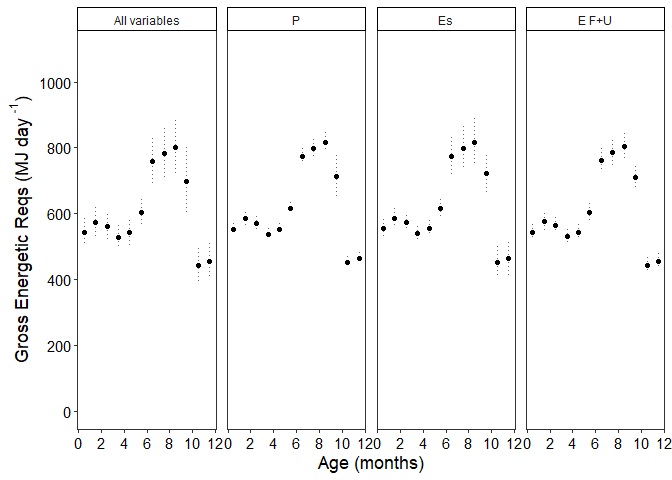
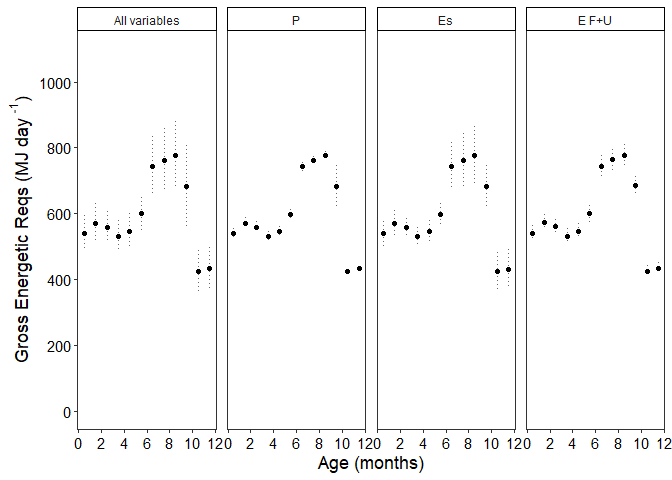
GER phase 1 - knit 10000 MC reps

diff --git a/gross_energetic_reqs/GER_sensanalysis_Es_source_phase1.md b/gross_energetic_reqs/GER_sensanalysis_Es_source_phase1.md
@@ -1,7 +1,7 @@
 Gross Energetic Requirements(GER) Sensitivity Analysis - phase 1
 ================
 Selina Agbayani
-25 Jan 2022 - code updated 21 July, 2025
+25 Jan 2022 - code updated 31 July, 2025
 
 ``` r
 # Set path for output figures: 
@@ -93,12 +93,12 @@ kable(head(Es_table_phase1_permth))
 
 | age_yrs | age_mth | Lifestage | no_days | MC_variable | Es | Es_sd | Es_perday | Es_perday_sd |
 |---:|---:|:---|---:|:---|---:|---:|---:|---:|
-| 0.0849315 | 1 | Calf | 31 | all | 5323.862 | 1390.3325 | 171.7375 | 44.84944 |
-| 0.0849315 | 1 | Calf | 31 | Rs | 4917.853 | 379.5683 | 158.6404 | 12.24414 |
-| 0.0849315 | 1 | Calf | 31 | Vt | 4894.131 | 353.4123 | 157.8752 | 11.40040 |
-| 0.0849315 | 1 | Calf | 31 | pctO2 | 4703.071 | 1052.4033 | 151.7120 | 33.94849 |
-| 0.1616438 | 2 | Calf | 28 | all | 5017.007 | 1330.9235 | 179.1788 | 47.53298 |
-| 0.1616438 | 2 | Calf | 28 | Rs | 4633.592 | 391.3971 | 165.4854 | 13.97847 |
+| 0.0849315 | 1 | Calf | 31 | all | 4601.708 | 1306.01149 | 148.4422 | 42.1294030 |
+| 0.0849315 | 1 | Calf | 31 | Rs | 4604.314 | 10.78140 | 148.5262 | 0.3477870 |
+| 0.0849315 | 1 | Calf | 31 | Vt | 4604.233 | 117.79601 | 148.5236 | 3.7998712 |
+| 0.0849315 | 1 | Calf | 31 | pctO2 | 4603.405 | 1315.36968 | 148.4969 | 42.4312801 |
+| 0.1616438 | 2 | Calf | 28 | all | 4354.556 | 1236.64343 | 155.5199 | 44.1658368 |
+| 0.1616438 | 2 | Calf | 28 | Rs | 4356.999 | 11.19663 | 155.6071 | 0.3998796 |
 
 ``` r
 mass_table <- as_tibble(read_csv("data/mass_table.csv"), 
@@ -154,12 +154,12 @@ kable(head(mean_masschange))
 
 |   age_yrs | mean_masschange | sd_masschange | sex | age_mth |
 |----------:|----------------:|--------------:|:----|--------:|
-| 0.0000000 |        986.5660 |     20.894489 | N/A |       0 |
-| 0.0849315 |        516.6026 |      8.099161 | N/A |       1 |
-| 0.1616438 |        507.6841 |     12.548106 | N/A |       2 |
-| 0.2465753 |        578.9767 |     13.529226 | N/A |       3 |
-| 0.3287671 |        555.4428 |      9.504603 | N/A |       4 |
-| 0.4136986 |        552.6109 |      6.368057 | N/A |       5 |
+| 0.0000000 |        982.8522 |     27.098452 | N/A |       0 |
+| 0.0849315 |        515.1631 |     10.503953 | N/A |       1 |
+| 0.1616438 |        505.4539 |     16.273872 | N/A |       2 |
+| 0.2465753 |        576.5720 |     17.546305 | N/A |       3 |
+| 0.3287671 |        553.7534 |     12.326696 | N/A |       4 |
+| 0.4136986 |        551.4791 |      8.258852 | N/A |       5 |
 
 ``` r
 age_yr_tibble <- as_tibble(
@@ -224,7 +224,7 @@ MC calculations for Production Cost and Es
 #Energy Density values
 ED_milk = 22.33 #MJ/kg   Average between Tomilin 1946 and Zenkovich 1938,    (Sumich 1986 - cited 22.4  MJ/kg)
 
-MC_reps = 10
+MC_reps = 10000
 ```
 
 ``` r
@@ -478,54 +478,54 @@ kable(predict_GER_table_sensAnalysis_phase1_permth)
 
 | phase | age_yrs | sex | MC_variable | mean_GER | GER_sd | quant025 | quant975 | GER_foraging | sd_foraging | quant025_foraging | quant975_foraging | FR_foraging | FR_sd_foraging | FR_quant025 | FR_quant975 | Ts | mass | mass_sd | pctbodywt | pctbodywt_sd | pct_unit | age_mth |
 |:---|---:|:---|:---|---:|---:|---:|---:|---:|---:|---:|---:|---:|---:|---:|---:|---:|---:|---:|---:|---:|:---|---:|
-| 1 | 0.0849315 | N/A | all | 541.6956 | 42.54135 | 488.4504 | 609.8798 | 541.6956 | 42.54135 | 488.4504 | 609.8798 | 24.25865 | 1.9051208 | 21.87418 | 27.31213 | 31 | 1493.320 | 30.22197 | 0.0162344 | 0.0010632 | L milk/kg body weight | 1 |
-| 1 | 0.1616438 | N/A | all | 572.5562 | 46.41602 | 514.4632 | 646.1757 | 572.5562 | 46.41602 | 514.4632 | 646.1757 | 25.64067 | 2.0786393 | 23.03910 | 28.93756 | 28 | 1996.742 | 43.30167 | 0.0128318 | 0.0008518 | L milk/kg body weight | 2 |
-| 1 | 0.2465753 | N/A | all | 560.6122 | 37.97524 | 509.9085 | 619.8920 | 560.6122 | 37.97524 | 509.9085 | 619.8920 | 25.10579 | 1.7006375 | 22.83513 | 27.76050 | 31 | 2571.123 | 57.40406 | 0.0097601 | 0.0005377 | L milk/kg body weight | 3 |
-| 1 | 0.3287671 | N/A | all | 527.6802 | 35.94325 | 480.7592 | 584.1114 | 527.6802 | 35.94325 | 480.7592 | 584.1114 | 23.63100 | 1.6096397 | 21.52974 | 26.15815 | 30 | 3123.337 | 67.31133 | 0.0075627 | 0.0004262 | L milk/kg body weight | 4 |
-| 1 | 0.4136986 | N/A | all | 541.9841 | 38.50671 | 491.8010 | 603.4494 | 541.9841 | 38.50671 | 491.8010 | 603.4494 | 24.27157 | 1.7244384 | 22.02423 | 27.02416 | 31 | 3673.785 | 73.94917 | 0.0066037 | 0.0003964 | L milk/kg body weight | 5 |
-| 1 | 0.4958904 | N/A | all | 603.0384 | 40.61985 | 549.5824 | 667.3214 | 603.0384 | 40.61985 | 549.5824 | 667.3214 | 27.00575 | 1.8190707 | 24.61184 | 29.88452 | 30 | 4176.706 | 75.22992 | 0.0064634 | 0.0003735 | L milk/kg body weight | 6 |
-| 1 | 0.5808219 | N/A | all | 757.7556 | 71.71363 | 672.0160 | 876.6381 | 757.7556 | 71.71363 | 672.0160 | 876.6381 | 33.93442 | 3.2115373 | 30.09476 | 39.25831 | 31 | 4658.620 | 74.38008 | 0.0072787 | 0.0006069 | L milk/kg body weight | 7 |
-| 1 | 0.6657534 | N/A | all | 781.8777 | 77.55865 | 689.7370 | 911.3745 | 781.8777 | 77.55865 | 689.7370 | 911.3745 | 35.01468 | 3.4732939 | 30.88836 | 40.81391 | 31 | 5098.540 | 73.57699 | 0.0068624 | 0.0006100 | L milk/kg body weight | 8 |
-| 1 | 0.7479452 | N/A | all | 800.3402 | 82.32948 | 703.0077 | 938.5747 | 800.3402 | 82.32948 | 703.0077 | 938.5747 | 35.84148 | 3.6869447 | 31.48265 | 42.03201 | 30 | 5483.042 | 76.03485 | 0.0065318 | 0.0006068 | L milk/kg body weight | 9 |
-| 1 | 0.8328767 | N/A | all | 699.0437 | 101.30627 | 573.3887 | 848.9400 | 699.0437 | 101.30627 | 573.3887 | 848.9400 | 31.30514 | 4.5367789 | 25.67795 | 38.01791 | 31 | 5774.600 | 172.20283 | 0.0054066 | 0.0006452 | L milk/kg body weight | 10 |
-| 1 | 0.9150685 | N/A | all | 442.3495 | 52.98001 | 382.3982 | 531.3219 | 442.3495 | 52.98001 | 382.3982 | 531.3219 | 152.69413 | 16.9513982 | 132.90846 | 181.67711 | 30 | 5908.041 | 168.54667 | 2.5811213 | 0.2367848 | % of body weight | 11 |
-| 1 | 1.0000000 | N/A | all | 454.2423 | 54.47439 | 392.6322 | 545.7510 | 454.2423 | 54.47439 | 392.6322 | 545.7510 | 156.79903 | 17.4294916 | 136.46550 | 186.61093 | 31 | 6045.986 | 164.44864 | 2.5900924 | 0.2399091 | % of body weight | 12 |
-| 1 | 0.0849315 | N/A | P_cost | 552.7408 | 18.33653 | 526.6708 | 577.3982 | 552.7408 | 18.33653 | 526.6708 | 577.3982 | 24.75328 | 0.8211613 | 23.58579 | 25.85751 | 31 | 1498.258 | 0.00000 | 0.0165214 | 0.0005481 | L milk/kg body weight | 1 |
-| 1 | 0.1616438 | N/A | P_cost | 584.3847 | 20.69069 | 554.2294 | 611.7499 | 584.3847 | 20.69069 | 554.2294 | 611.7499 | 26.17038 | 0.9265873 | 24.81994 | 27.39587 | 28 | 2003.817 | 0.00000 | 0.0130603 | 0.0004624 | L milk/kg body weight | 2 |
-| 1 | 0.2465753 | N/A | P_cost | 571.7738 | 20.09168 | 541.4845 | 597.7683 | 571.7738 | 20.09168 | 541.4845 | 597.7683 | 25.60564 | 0.8997616 | 24.24919 | 26.76974 | 31 | 2580.502 | 0.00000 | 0.0099227 | 0.0003487 | L milk/kg body weight | 3 |
-| 1 | 0.3287671 | N/A | P_cost | 537.9450 | 17.89511 | 510.1534 | 560.5998 | 537.9450 | 17.89511 | 510.1534 | 560.5998 | 24.09068 | 0.8013931 | 22.84610 | 25.10523 | 30 | 3134.335 | 0.00000 | 0.0076861 | 0.0002557 | L milk/kg body weight | 4 |
-| 1 | 0.4136986 | N/A | P_cost | 552.4873 | 17.77054 | 526.3366 | 575.8653 | 552.4873 | 17.77054 | 526.3366 | 575.8653 | 24.74193 | 0.7958147 | 23.57083 | 25.78886 | 31 | 3685.868 | 0.00000 | 0.0067126 | 0.0002159 | L milk/kg body weight | 5 |
-| 1 | 0.4958904 | N/A | P_cost | 615.0639 | 18.79466 | 589.4917 | 640.9180 | 615.0639 | 18.79466 | 589.4917 | 640.9180 | 27.54429 | 0.8416775 | 26.39909 | 28.70210 | 30 | 4188.998 | 0.00000 | 0.0065754 | 0.0002009 | L milk/kg body weight | 6 |
-| 1 | 0.5808219 | N/A | P_cost | 773.9365 | 25.34524 | 745.5946 | 810.2517 | 773.9365 | 25.34524 | 745.5946 | 810.2517 | 34.65905 | 1.1350308 | 33.38982 | 36.28534 | 31 | 4670.773 | 0.00000 | 0.0074204 | 0.0002430 | L milk/kg body weight | 7 |
-| 1 | 0.6657534 | N/A | P_cost | 798.6208 | 26.87824 | 769.3812 | 837.2530 | 798.6208 | 26.87824 | 769.3812 | 837.2530 | 35.76448 | 1.2036828 | 34.45505 | 37.49454 | 31 | 5110.562 | 0.00000 | 0.0069981 | 0.0002355 | L milk/kg body weight | 8 |
-| 1 | 0.7479452 | N/A | P_cost | 817.6246 | 28.00172 | 786.5676 | 857.9084 | 817.6246 | 28.00172 | 786.5676 | 857.9084 | 36.61552 | 1.2539953 | 35.22470 | 38.41954 | 30 | 5495.466 | 0.00000 | 0.0066629 | 0.0002282 | L milk/kg body weight | 9 |
-| 1 | 0.8328767 | N/A | P_cost | 714.2141 | 62.51032 | 613.3978 | 790.3663 | 714.2141 | 62.51032 | 613.3978 | 790.3663 | 31.98451 | 2.7993874 | 27.46967 | 35.39482 | 31 | 5802.737 | 0.00000 | 0.0055120 | 0.0004824 | L milk/kg body weight | 10 |
-| 1 | 0.9150685 | N/A | P_cost | 452.4455 | 17.09985 | 432.7290 | 476.8587 | 452.4455 | 17.09985 | 432.7290 | 476.8587 | 156.01569 | 5.8964999 | 149.21689 | 164.43403 | 30 | 5935.580 | 0.00000 | 2.6284827 | 0.0993416 | % of body weight | 11 |
-| 1 | 1.0000000 | N/A | P_cost | 464.6727 | 17.46182 | 444.5211 | 489.6140 | 464.6727 | 17.46182 | 444.5211 | 489.6140 | 160.23198 | 6.0213176 | 153.28314 | 168.83241 | 31 | 6072.856 | 0.00000 | 2.6384946 | 0.0991513 | % of body weight | 12 |
-| 1 | 0.0849315 | N/A | Es | 554.4069 | 28.39993 | 523.8656 | 601.9316 | 554.4069 | 28.39993 | 523.8656 | 601.9316 | 24.82790 | 1.2718285 | 23.46017 | 26.95619 | 31 | 1498.258 | 0.00000 | 0.0165712 | 0.0008489 | L milk/kg body weight | 1 |
-| 1 | 0.1616438 | N/A | Es | 586.2712 | 30.34884 | 552.4849 | 636.6138 | 586.2712 | 30.34884 | 552.4849 | 636.6138 | 26.25487 | 1.3591060 | 24.74182 | 28.50935 | 28 | 2003.817 | 0.00000 | 0.0131024 | 0.0006783 | L milk/kg body weight | 2 |
-| 1 | 0.2465753 | N/A | Es | 574.1078 | 20.86688 | 551.1952 | 609.3426 | 574.1078 | 20.86688 | 551.1952 | 609.3426 | 25.71016 | 0.9344773 | 24.68407 | 27.28807 | 31 | 2580.502 | 0.00000 | 0.0099632 | 0.0003621 | L milk/kg body weight | 3 |
-| 1 | 0.3287671 | N/A | Es | 540.3420 | 19.94034 | 517.7070 | 574.6484 | 540.3420 | 19.94034 | 517.7070 | 574.6484 | 24.19803 | 0.8929843 | 23.18437 | 25.73437 | 30 | 3134.335 | 0.00000 | 0.0077203 | 0.0002849 | L milk/kg body weight | 4 |
-| 1 | 0.4136986 | N/A | Es | 554.7348 | 23.50649 | 528.0332 | 595.1654 | 554.7348 | 23.50649 | 528.0332 | 595.1654 | 24.84258 | 1.0526866 | 23.64681 | 26.65318 | 31 | 3685.868 | 0.00000 | 0.0067400 | 0.0002856 | L milk/kg body weight | 5 |
-| 1 | 0.4958904 | N/A | Es | 616.8020 | 25.61923 | 588.6008 | 660.0578 | 616.8020 | 25.61923 | 588.6008 | 660.0578 | 27.62212 | 1.1473008 | 26.35919 | 29.55924 | 30 | 4188.998 | 0.00000 | 0.0065940 | 0.0002739 | L milk/kg body weight | 6 |
-| 1 | 0.5808219 | N/A | Es | 774.4531 | 58.61736 | 706.2837 | 870.4534 | 774.4531 | 58.61736 | 706.2837 | 870.4534 | 34.68218 | 2.6250496 | 31.62936 | 38.98134 | 31 | 4670.773 | 0.00000 | 0.0074254 | 0.0005620 | L milk/kg body weight | 7 |
-| 1 | 0.6657534 | N/A | Es | 798.8882 | 65.37352 | 722.8924 | 905.9585 | 798.8882 | 65.37352 | 722.8924 | 905.9585 | 35.77645 | 2.9276097 | 32.37315 | 40.57136 | 31 | 5110.562 | 0.00000 | 0.0070005 | 0.0005729 | L milk/kg body weight | 8 |
-| 1 | 0.7479452 | N/A | Es | 817.5754 | 70.98722 | 735.0141 | 933.8331 | 817.5754 | 70.98722 | 735.0141 | 933.8331 | 36.61332 | 3.1790066 | 32.91599 | 41.81966 | 30 | 5495.466 | 0.00000 | 0.0066625 | 0.0005785 | L milk/kg body weight | 9 |
-| 1 | 0.8328767 | N/A | Es | 721.5061 | 55.49407 | 658.4737 | 812.6481 | 721.5061 | 55.49407 | 658.4737 | 812.6481 | 32.31107 | 2.4851801 | 29.48830 | 36.39266 | 31 | 5802.737 | 0.00000 | 0.0055682 | 0.0004283 | L milk/kg body weight | 10 |
-| 1 | 0.9150685 | N/A | Es | 451.6812 | 48.41072 | 392.8543 | 529.7092 | 451.6812 | 48.41072 | 392.8543 | 529.7092 | 155.75215 | 16.6933517 | 135.46699 | 182.65836 | 30 | 5935.580 | 0.00000 | 2.6240427 | 0.2812421 | % of body weight | 11 |
-| 1 | 1.0000000 | N/A | Es | 463.8272 | 49.81563 | 403.2449 | 544.0982 | 463.8272 | 49.81563 | 403.2449 | 544.0982 | 159.94043 | 17.1778029 | 139.04996 | 187.62008 | 31 | 6072.856 | 0.00000 | 2.6336938 | 0.2828620 | % of body weight | 12 |
-| 1 | 0.0849315 | N/A | E_FnU | 544.1521 | 23.67779 | 513.9855 | 578.4647 | 544.1521 | 23.67779 | 513.9855 | 578.4647 | 24.36866 | 1.0603580 | 23.01771 | 25.90527 | 31 | 1498.258 | 0.00000 | 0.0162647 | 0.0007077 | L milk/kg body weight | 1 |
-| 1 | 0.1616438 | N/A | E_FnU | 575.5560 | 25.00843 | 543.7141 | 611.8783 | 575.5560 | 25.00843 | 543.7141 | 611.8783 | 25.77501 | 1.1199477 | 24.34904 | 27.40163 | 28 | 2003.817 | 0.00000 | 0.0128630 | 0.0005589 | L milk/kg body weight | 2 |
-| 1 | 0.2465753 | N/A | E_FnU | 563.2228 | 24.10278 | 532.7937 | 598.5210 | 563.2228 | 24.10278 | 532.7937 | 598.5210 | 25.22270 | 1.0793899 | 23.85999 | 26.80345 | 31 | 2580.502 | 0.00000 | 0.0097743 | 0.0004183 | L milk/kg body weight | 3 |
-| 1 | 0.3287671 | N/A | E_FnU | 529.8798 | 22.20750 | 501.9387 | 563.1159 | 529.8798 | 22.20750 | 501.9387 | 563.1159 | 23.72950 | 0.9945139 | 22.47822 | 25.21791 | 30 | 3134.335 | 0.00000 | 0.0075708 | 0.0003173 | L milk/kg body weight | 4 |
-| 1 | 0.4136986 | N/A | E_FnU | 543.9715 | 23.16233 | 514.8507 | 578.2206 | 543.9715 | 23.16233 | 514.8507 | 578.2206 | 24.36057 | 1.0372741 | 23.05646 | 25.89434 | 31 | 3685.868 | 0.00000 | 0.0066092 | 0.0002814 | L milk/kg body weight | 5 |
-| 1 | 0.4958904 | N/A | E_FnU | 605.1601 | 26.44607 | 571.4008 | 643.2074 | 605.1601 | 26.44607 | 571.4008 | 643.2074 | 27.10077 | 1.1843293 | 25.58893 | 28.80463 | 30 | 4188.998 | 0.00000 | 0.0064695 | 0.0002827 | L milk/kg body weight | 6 |
-| 1 | 0.5808219 | N/A | E_FnU | 760.8564 | 35.87804 | 713.2811 | 808.9566 | 760.8564 | 35.87804 | 713.2811 | 808.9566 | 34.07328 | 1.6067191 | 31.94273 | 36.22734 | 31 | 4670.773 | 0.00000 | 0.0072950 | 0.0003440 | L milk/kg body weight | 7 |
-| 1 | 0.6657534 | N/A | E_FnU | 784.9196 | 37.96852 | 734.2200 | 835.0826 | 784.9196 | 37.96852 | 734.2200 | 835.0826 | 35.15090 | 1.7003368 | 32.88043 | 37.39734 | 31 | 5110.562 | 0.00000 | 0.0068781 | 0.0003327 | L milk/kg body weight | 8 |
-| 1 | 0.7479452 | N/A | E_FnU | 803.4264 | 39.57634 | 750.3805 | 856.0435 | 803.4264 | 39.57634 | 750.3805 | 856.0435 | 35.97969 | 1.7723395 | 33.60414 | 38.33603 | 30 | 5495.466 | 0.00000 | 0.0065472 | 0.0003225 | L milk/kg body weight | 9 |
-| 1 | 0.8328767 | N/A | E_FnU | 708.7977 | 35.52081 | 661.0334 | 756.1806 | 708.7977 | 35.52081 | 661.0334 | 756.1806 | 31.74195 | 1.5907213 | 29.60293 | 33.86389 | 31 | 5802.737 | 0.00000 | 0.0054702 | 0.0002741 | L milk/kg body weight | 10 |
-| 1 | 0.9150685 | N/A | E_FnU | 444.3771 | 23.41425 | 412.7079 | 475.9353 | 444.3771 | 23.41425 | 412.7079 | 475.9353 | 153.23347 | 8.0738782 | 142.31307 | 164.11564 | 30 | 5935.580 | 0.00000 | 2.5816091 | 0.1360251 | % of body weight | 11 |
-| 1 | 1.0000000 | N/A | E_FnU | 456.3846 | 23.97609 | 423.9734 | 488.7448 | 456.3846 | 23.97609 | 423.9734 | 488.7448 | 157.37399 | 8.2676157 | 146.19772 | 168.53271 | 31 | 6072.856 | 0.00000 | 2.5914330 | 0.1361405 | % of body weight | 12 |
+| 1 | 0.0849315 | N/A | all | 539.6875 | 55.439240 | 420.5985 | 658.8054 | 539.6875 | 55.439240 | 420.5985 | 658.8054 | 24.16872 | 2.4827246 | 18.83558 | 29.50315 | 31 | 1498.233 | 37.13787 | 0.0161090 | 0.0013667 | L milk/kg body weight | 1 |
+| 1 | 0.1616438 | N/A | all | 571.9377 | 59.897249 | 443.5188 | 700.2593 | 571.9377 | 59.897249 | 443.5188 | 700.2593 | 25.61297 | 2.6823667 | 19.86201 | 31.35958 | 28 | 2003.780 | 53.21070 | 0.0127628 | 0.0010882 | L milk/kg body weight | 2 |
+| 1 | 0.2465753 | N/A | all | 559.6718 | 47.883514 | 461.0710 | 657.4962 | 559.6718 | 47.883514 | 461.0710 | 657.4962 | 25.06367 | 2.1443580 | 20.64805 | 29.44452 | 31 | 2580.454 | 70.54024 | 0.0097022 | 0.0006426 | L milk/kg body weight | 3 |
+| 1 | 0.3287671 | N/A | all | 530.9762 | 49.648403 | 427.1272 | 634.5545 | 530.9762 | 49.648403 | 427.1272 | 634.5545 | 23.77860 | 2.2233947 | 19.12795 | 28.41713 | 30 | 3134.278 | 82.71465 | 0.0075770 | 0.0005639 | L milk/kg body weight | 4 |
+| 1 | 0.4136986 | N/A | all | 546.1253 | 54.070410 | 431.1852 | 661.0533 | 546.1253 | 54.070410 | 431.1852 | 661.0533 | 24.45702 | 2.4214245 | 19.30968 | 29.60382 | 31 | 3685.805 | 90.87147 | 0.0066267 | 0.0005384 | L milk/kg body weight | 5 |
+| 1 | 0.4958904 | N/A | all | 599.4550 | 51.179542 | 492.0861 | 706.3557 | 599.4550 | 51.179542 | 492.0861 | 706.3557 | 26.84527 | 2.2919634 | 22.03699 | 31.63259 | 30 | 4188.934 | 92.44531 | 0.0064026 | 0.0004498 | L milk/kg body weight | 6 |
+| 1 | 0.5808219 | N/A | all | 743.6525 | 89.813260 | 545.3535 | 942.8078 | 743.6525 | 89.813260 | 545.3535 | 942.8078 | 33.30284 | 4.0220896 | 24.42246 | 42.22158 | 31 | 4670.710 | 91.40099 | 0.0071201 | 0.0007617 | L milk/kg body weight | 7 |
+| 1 | 0.6657534 | N/A | all | 762.6517 | 96.531867 | 547.8885 | 977.9855 | 762.6517 | 96.531867 | 547.8885 | 977.9855 | 34.15368 | 4.3229676 | 24.53598 | 43.79693 | 31 | 5110.500 | 90.41413 | 0.0066738 | 0.0007618 | L milk/kg body weight | 8 |
+| 1 | 0.7479452 | N/A | all | 777.3938 | 102.645174 | 548.1038 | 1006.8728 | 777.3938 | 102.645174 | 548.1038 | 1006.8728 | 34.81387 | 4.5967387 | 24.54563 | 45.09059 | 30 | 5495.401 | 93.43444 | 0.0063263 | 0.0007602 | L milk/kg body weight | 9 |
+| 1 | 0.8328767 | N/A | all | 683.9532 | 122.894134 | 424.6957 | 939.1442 | 683.9532 | 122.894134 | 424.6957 | 939.1442 | 30.62934 | 5.5035439 | 19.01906 | 42.05751 | 31 | 5802.591 | 211.60921 | 0.0052542 | 0.0007828 | L milk/kg body weight | 10 |
+| 1 | 0.9150685 | N/A | all | 424.8265 | 64.693934 | 279.1008 | 569.1465 | 424.8265 | 64.693934 | 279.1008 | 569.1465 | 146.28308 | 20.8020603 | 98.56456 | 192.14816 | 30 | 5935.437 | 207.11639 | 2.4587485 | 0.2970785 | % of body weight | 11 |
+| 1 | 1.0000000 | N/A | all | 432.6626 | 66.135785 | 283.7109 | 580.1292 | 432.6626 | 66.135785 | 283.7109 | 580.1292 | 148.98084 | 21.2745822 | 100.16555 | 195.94384 | 31 | 6072.716 | 202.08059 | 2.4476053 | 0.2994033 | % of body weight | 12 |
+| 1 | 0.0849315 | N/A | P_cost | 539.0819 | 15.329991 | 508.6042 | 569.1905 | 539.0819 | 15.329991 | 508.6042 | 569.1905 | 24.14160 | 0.6865200 | 22.77672 | 25.48995 | 31 | 1498.258 | 0.00000 | 0.0161131 | 0.0004582 | L milk/kg body weight | 1 |
+| 1 | 0.1616438 | N/A | P_cost | 571.2898 | 18.138672 | 535.2277 | 606.9147 | 571.2898 | 18.138672 | 535.2277 | 606.9147 | 25.58396 | 0.8123006 | 23.96900 | 27.17934 | 28 | 2003.817 | 0.00000 | 0.0127676 | 0.0004054 | L milk/kg body weight | 2 |
+| 1 | 0.2465753 | N/A | P_cost | 558.9276 | 18.418729 | 522.3083 | 595.1025 | 558.9276 | 18.418729 | 522.3083 | 595.1025 | 25.03035 | 0.8248423 | 23.39043 | 26.65036 | 31 | 2580.502 | 0.00000 | 0.0096998 | 0.0003196 | L milk/kg body weight | 3 |
+| 1 | 0.3287671 | N/A | P_cost | 530.3148 | 17.192668 | 496.1330 | 564.0813 | 530.3148 | 17.192668 | 496.1330 | 564.0813 | 23.74898 | 0.7699359 | 22.21823 | 25.26114 | 30 | 3134.335 | 0.00000 | 0.0075770 | 0.0002456 | L milk/kg body weight | 4 |
+| 1 | 0.4136986 | N/A | P_cost | 545.4901 | 15.867603 | 513.9432 | 576.6545 | 545.4901 | 15.867603 | 513.9432 | 576.6545 | 24.42857 | 0.7105958 | 23.01582 | 25.82421 | 31 | 3685.868 | 0.00000 | 0.0066276 | 0.0001928 | L milk/kg body weight | 5 |
+| 1 | 0.4958904 | N/A | P_cost | 598.7002 | 14.394875 | 570.0824 | 626.9725 | 598.7002 | 14.394875 | 570.0824 | 626.9725 | 26.81147 | 0.6446429 | 25.52989 | 28.07758 | 30 | 4188.998 | 0.00000 | 0.0064005 | 0.0001539 | L milk/kg body weight | 6 |
+| 1 | 0.5808219 | N/A | P_cost | 743.0011 | 13.317365 | 716.5151 | 769.1563 | 743.0011 | 13.317365 | 716.5151 | 769.1563 | 33.27367 | 0.5963889 | 32.08756 | 34.44498 | 31 | 4670.773 | 0.00000 | 0.0071238 | 0.0001277 | L milk/kg body weight | 7 |
+| 1 | 0.6657534 | N/A | P_cost | 762.0392 | 12.157980 | 737.8607 | 785.9172 | 762.0392 | 12.157980 | 737.8607 | 785.9172 | 34.12625 | 0.5444684 | 33.04347 | 35.19558 | 31 | 5110.562 | 0.00000 | 0.0066776 | 0.0001065 | L milk/kg body weight | 8 |
+| 1 | 0.7479452 | N/A | P_cost | 776.8214 | 11.129523 | 754.6954 | 798.6639 | 776.8214 | 11.129523 | 754.6954 | 798.6639 | 34.78824 | 0.4984112 | 33.79738 | 35.76641 | 30 | 5495.466 | 0.00000 | 0.0063304 | 0.0000907 | L milk/kg body weight | 9 |
+| 1 | 0.8328767 | N/A | P_cost | 683.3143 | 63.274363 | 557.5177 | 807.5683 | 683.3143 | 63.274363 | 557.5177 | 807.5683 | 30.60073 | 2.8336034 | 24.96720 | 36.16517 | 31 | 5802.737 | 0.00000 | 0.0052735 | 0.0004883 | L milk/kg body weight | 10 |
+| 1 | 0.9150685 | N/A | P_cost | 424.5656 | 4.515806 | 415.5838 | 433.4266 | 424.5656 | 4.515806 | 415.5838 | 433.4266 | 146.40192 | 1.5571743 | 143.30475 | 149.45743 | 30 | 5935.580 | 0.00000 | 2.4665141 | 0.0262346 | % of body weight | 11 |
+| 1 | 1.0000000 | N/A | P_cost | 432.4019 | 4.632349 | 423.1871 | 441.4918 | 432.4019 | 4.632349 | 423.1871 | 441.4918 | 149.10412 | 1.5973619 | 145.92658 | 152.23856 | 31 | 6072.856 | 0.00000 | 2.4552553 | 0.0263033 | % of body weight | 12 |
+| 1 | 0.0849315 | N/A | Es | 538.7680 | 37.688796 | 449.9233 | 625.9349 | 538.7680 | 37.688796 | 449.9233 | 625.9349 | 24.12754 | 1.6878099 | 20.14883 | 28.03112 | 31 | 1498.258 | 0.00000 | 0.0161037 | 0.0011265 | L milk/kg body weight | 1 |
+| 1 | 0.1616438 | N/A | Es | 570.9638 | 39.507292 | 477.8238 | 662.2855 | 570.9638 | 39.507292 | 477.8238 | 662.2855 | 25.56936 | 1.7692473 | 21.39829 | 29.65900 | 28 | 2003.817 | 0.00000 | 0.0127603 | 0.0008829 | L milk/kg body weight | 2 |
+| 1 | 0.2465753 | N/A | Es | 558.7214 | 25.637376 | 498.2579 | 617.9543 | 558.7214 | 25.637376 | 498.2579 | 617.9543 | 25.02111 | 1.1481136 | 22.31339 | 27.67373 | 31 | 2580.502 | 0.00000 | 0.0096962 | 0.0004449 | L milk/kg body weight | 3 |
+| 1 | 0.3287671 | N/A | Es | 530.0736 | 29.584858 | 460.3198 | 598.4415 | 530.0736 | 29.584858 | 460.3198 | 598.4415 | 23.73818 | 1.3248929 | 20.61441 | 26.79989 | 30 | 3134.335 | 0.00000 | 0.0075736 | 0.0004227 | L milk/kg body weight | 4 |
+| 1 | 0.4136986 | N/A | Es | 545.1954 | 35.545710 | 461.3967 | 627.3885 | 545.1954 | 35.545710 | 461.3967 | 627.3885 | 24.41538 | 1.5918365 | 20.66264 | 28.09622 | 31 | 3685.868 | 0.00000 | 0.0066241 | 0.0004319 | L milk/kg body weight | 5 |
+| 1 | 0.4958904 | N/A | Es | 598.4346 | 32.273103 | 522.3241 | 673.0037 | 598.4346 | 32.273103 | 522.3241 | 673.0037 | 26.79958 | 1.4452800 | 23.39114 | 30.13899 | 30 | 4188.998 | 0.00000 | 0.0063976 | 0.0003450 | L milk/kg body weight | 6 |
+| 1 | 0.5808219 | N/A | Es | 742.3794 | 73.206541 | 569.8241 | 911.7335 | 742.3794 | 73.206541 | 569.8241 | 911.7335 | 33.24583 | 3.2783942 | 25.51832 | 40.82998 | 31 | 4670.773 | 0.00000 | 0.0071178 | 0.0007019 | L milk/kg body weight | 7 |
+| 1 | 0.6657534 | N/A | Es | 761.3447 | 81.035914 | 570.2727 | 948.9437 | 761.3447 | 81.035914 | 570.2727 | 948.9437 | 34.09515 | 3.6290154 | 25.53841 | 42.49636 | 31 | 5110.562 | 0.00000 | 0.0066715 | 0.0007101 | L milk/kg body weight | 8 |
+| 1 | 0.7479452 | N/A | Es | 776.0603 | 88.131170 | 568.1455 | 980.2082 | 776.0603 | 88.131170 | 568.1455 | 980.2082 | 34.75416 | 3.9467608 | 25.44315 | 43.89647 | 30 | 5495.466 | 0.00000 | 0.0063242 | 0.0007182 | L milk/kg body weight | 9 |
+| 1 | 0.8328767 | N/A | Es | 682.7981 | 64.091970 | 531.5748 | 831.2840 | 682.7981 | 64.091970 | 531.5748 | 831.2840 | 30.57761 | 2.8702181 | 23.80541 | 37.22723 | 31 | 5802.737 | 0.00000 | 0.0052695 | 0.0004946 | L milk/kg body weight | 10 |
+| 1 | 0.9150685 | N/A | Es | 424.0945 | 58.279670 | 286.9086 | 558.3927 | 424.0945 | 58.279670 | 286.9086 | 558.3927 | 146.23949 | 20.0964378 | 98.93401 | 192.54921 | 30 | 5935.580 | 0.00000 | 2.4637777 | 0.3385758 | % of body weight | 11 |
+| 1 | 1.0000000 | N/A | Es | 431.9172 | 59.595505 | 291.5281 | 569.2292 | 431.9172 | 59.595505 | 291.5281 | 569.2292 | 148.93695 | 20.5501740 | 100.52694 | 196.28594 | 31 | 6072.856 | 0.00000 | 2.4525026 | 0.3383939 | % of body weight | 12 |
+| 1 | 0.0849315 | N/A | E_FnU | 540.0102 | 22.948195 | 503.7839 | 579.6952 | 540.0102 | 22.948195 | 503.7839 | 579.6952 | 24.18317 | 1.0276845 | 22.56086 | 25.96038 | 31 | 1498.258 | 0.00000 | 0.0161409 | 0.0006859 | L milk/kg body weight | 1 |
+| 1 | 0.1616438 | N/A | E_FnU | 572.2749 | 24.319305 | 533.8840 | 614.3308 | 572.2749 | 24.319305 | 533.8840 | 614.3308 | 25.62807 | 1.0890866 | 23.90882 | 27.51146 | 28 | 2003.817 | 0.00000 | 0.0127896 | 0.0005435 | L milk/kg body weight | 2 |
+| 1 | 0.2465753 | N/A | E_FnU | 559.8918 | 23.793048 | 522.3314 | 601.0375 | 559.8918 | 23.793048 | 522.3314 | 601.0375 | 25.07353 | 1.0655194 | 23.39147 | 26.91614 | 31 | 2580.502 | 0.00000 | 0.0097165 | 0.0004129 | L milk/kg body weight | 3 |
+| 1 | 0.3287671 | N/A | E_FnU | 531.2295 | 22.574997 | 495.5919 | 570.2688 | 531.2295 | 22.574997 | 495.5919 | 570.2688 | 23.78994 | 1.0109716 | 22.19400 | 25.53824 | 30 | 3134.335 | 0.00000 | 0.0075901 | 0.0003225 | L milk/kg body weight | 4 |
+| 1 | 0.4136986 | N/A | E_FnU | 546.4296 | 23.220975 | 509.7726 | 586.5863 | 546.4296 | 23.220975 | 509.7726 | 586.5863 | 24.47065 | 1.0399004 | 22.82905 | 26.26898 | 31 | 3685.868 | 0.00000 | 0.0066390 | 0.0002821 | L milk/kg body weight | 5 |
+| 1 | 0.4958904 | N/A | E_FnU | 599.7293 | 25.486024 | 559.4973 | 643.8036 | 599.7293 | 25.486024 | 559.4973 | 643.8036 | 26.85756 | 1.1413356 | 25.05586 | 28.83133 | 30 | 4188.998 | 0.00000 | 0.0064115 | 0.0002725 | L milk/kg body weight | 6 |
+| 1 | 0.5808219 | N/A | E_FnU | 744.2752 | 31.628781 | 694.3635 | 798.9783 | 744.2752 | 31.628781 | 694.3635 | 798.9783 | 33.33073 | 1.4164255 | 31.09554 | 35.78049 | 31 | 4670.773 | 0.00000 | 0.0071360 | 0.0003033 | L milk/kg body weight | 7 |
+| 1 | 0.6657534 | N/A | E_FnU | 763.3448 | 32.439222 | 712.1603 | 819.4446 | 763.3448 | 32.439222 | 712.1603 | 819.4446 | 34.18472 | 1.4527193 | 31.89253 | 36.69702 | 31 | 5110.562 | 0.00000 | 0.0066890 | 0.0002843 | L milk/kg body weight | 8 |
+| 1 | 0.7479452 | N/A | E_FnU | 778.1515 | 33.068505 | 725.9772 | 835.3402 | 778.1515 | 33.068505 | 725.9772 | 835.3402 | 34.84781 | 1.4809004 | 32.51130 | 37.40888 | 30 | 5495.466 | 0.00000 | 0.0063412 | 0.0002695 | L milk/kg body weight | 9 |
+| 1 | 0.8328767 | N/A | E_FnU | 684.5213 | 29.089605 | 638.6277 | 734.8292 | 684.5213 | 29.089605 | 638.6277 | 734.8292 | 30.65478 | 1.3027141 | 28.59954 | 32.90771 | 31 | 5802.737 | 0.00000 | 0.0052828 | 0.0002245 | L milk/kg body weight | 10 |
+| 1 | 0.9150685 | N/A | E_FnU | 425.2914 | 18.073313 | 396.7812 | 456.5480 | 425.2914 | 18.073313 | 396.7812 | 456.5480 | 146.65222 | 6.2321769 | 136.82110 | 157.43033 | 30 | 5935.580 | 0.00000 | 2.4707312 | 0.1049969 | % of body weight | 11 |
+| 1 | 1.0000000 | N/A | E_FnU | 433.1412 | 18.406908 | 404.1053 | 464.9754 | 433.1412 | 18.406908 | 404.1053 | 464.9754 | 149.35905 | 6.3472097 | 139.34665 | 160.33634 | 31 | 6072.856 | 0.00000 | 2.4594532 | 0.1045177 | % of body weight | 12 |
 
 ``` r
 predict_GER_table_sensAnalysis_phase1_permth_allvary <- predict_GER_table_sensAnalysis_phase1_permth %>% 
@@ -536,7 +536,7 @@ average_GER_first_yr <-
 average_GER_first_yr
 ```
 
-    ## [1] 606.9313
+    ## [1] 597.7495
 
 ``` r
 average_GER_first_yr_sd <- 
@@ -544,7 +544,7 @@ average_GER_first_yr_sd <-
 average_GER_first_yr_sd
 ```
 
-    ## [1] 56.86374
+    ## [1] 71.73604
 
 ``` r
 predict_GER_table_sensAnalysis_phase1_permth$MC_var_factor <- 
